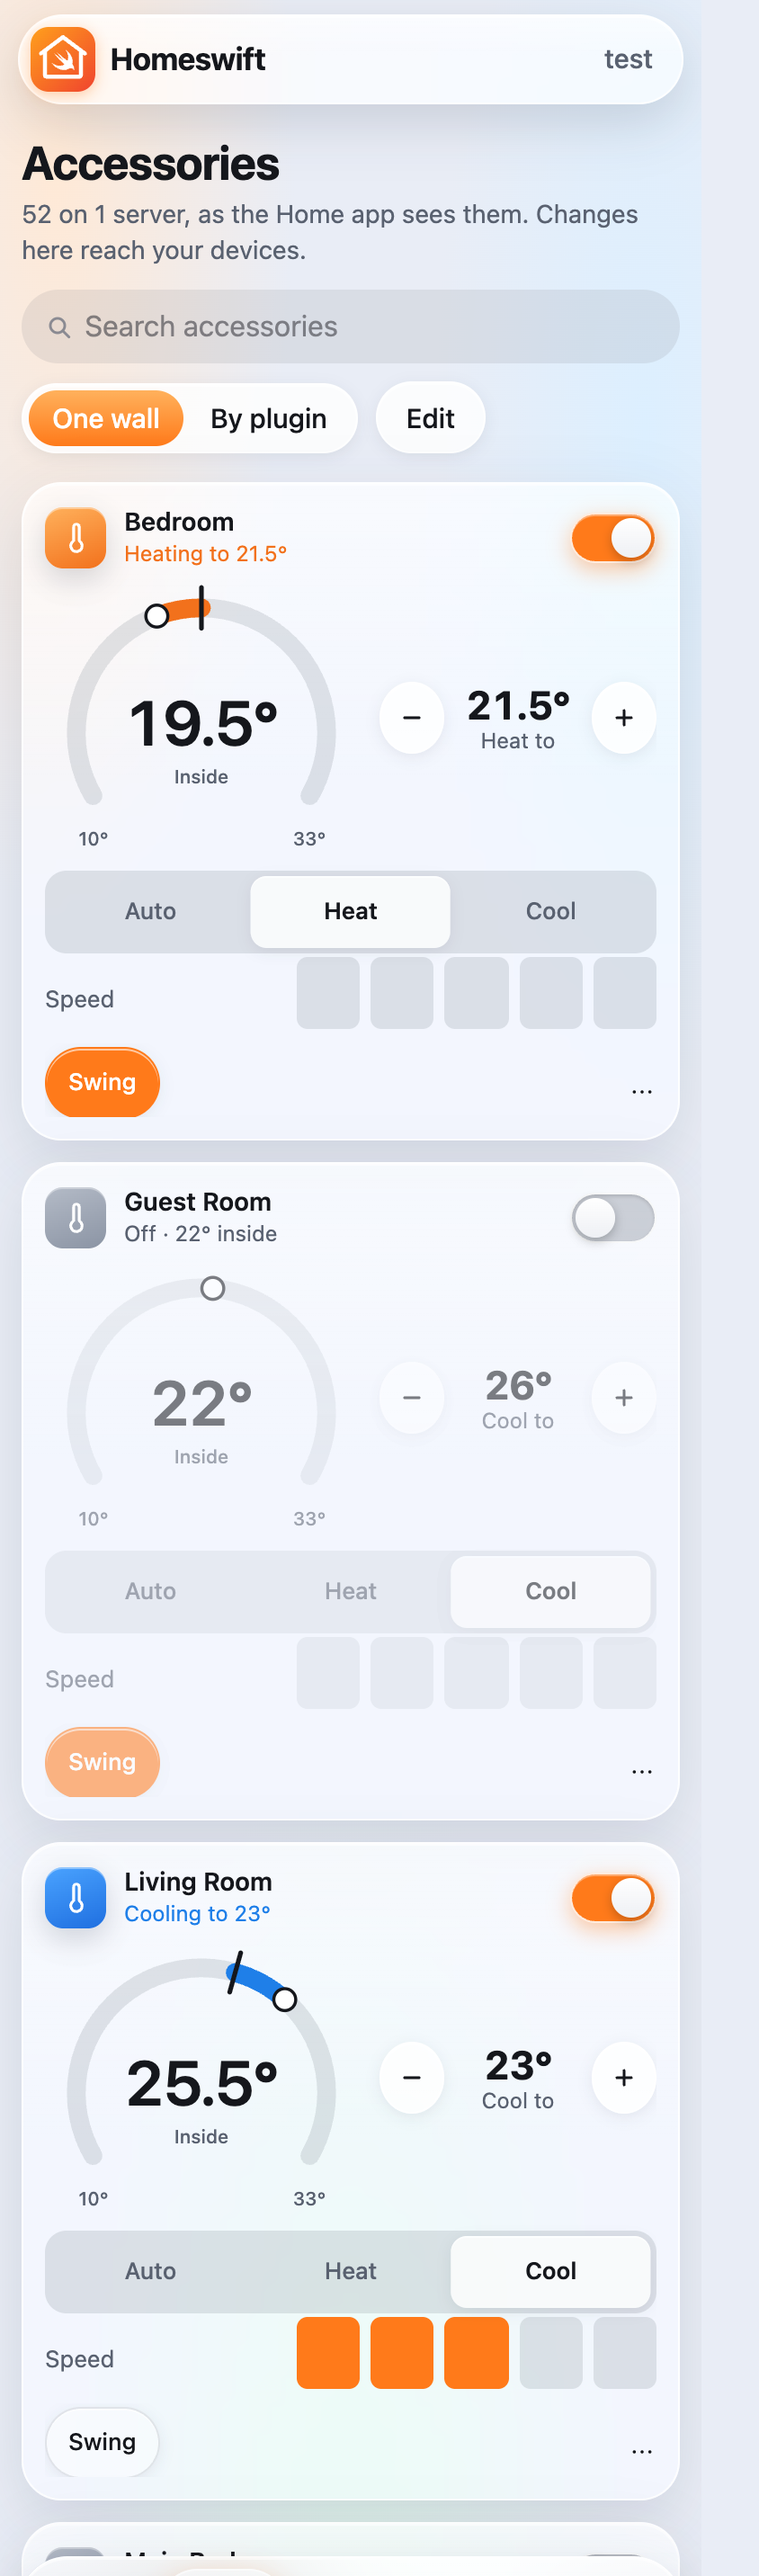
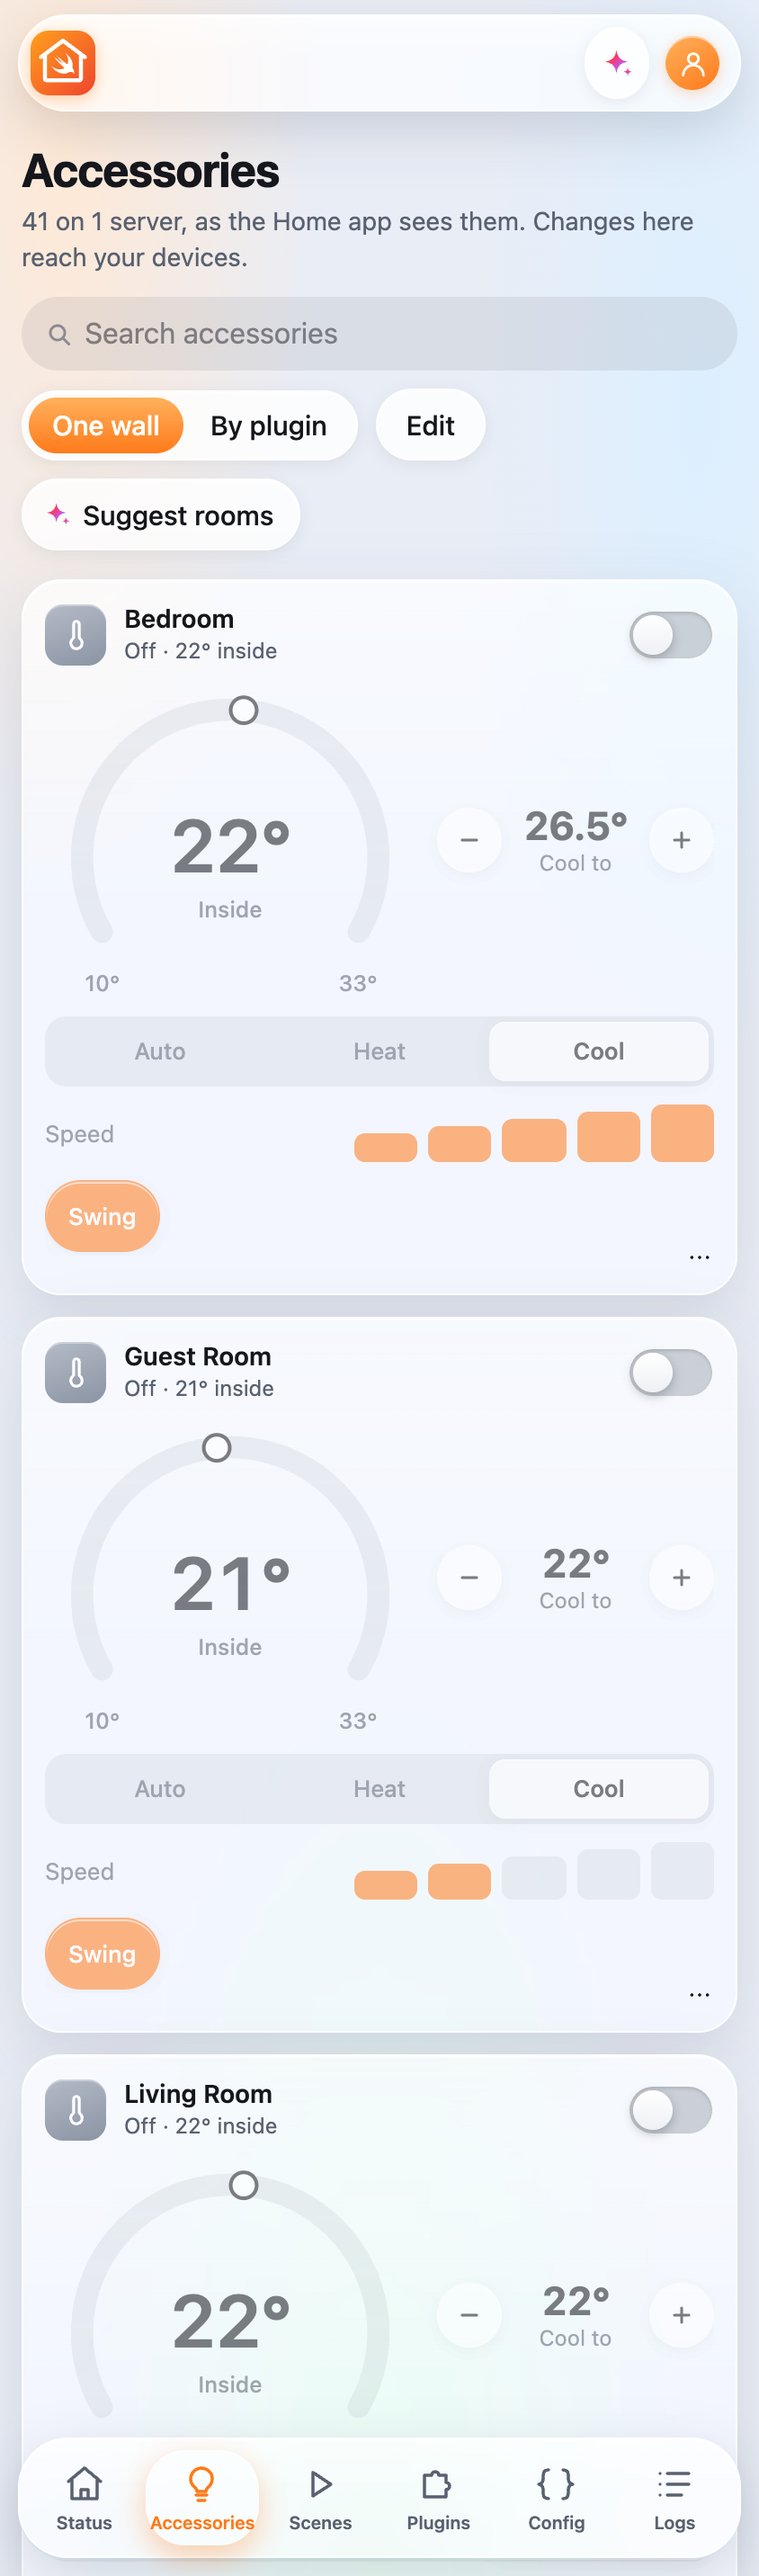
Docs: the web UI screenshots retaken with the current header and wall (Scripts/docs-screenshots.mjs); CLAUDE.md: a UI change retakes its screenshots and keeps site/ in step

diff --git a/CLAUDE.md b/CLAUDE.md
@@ -23,6 +23,7 @@ Library `Homeswift`, plugin API and runtime `HomeswiftPlugin`, the `homeswift` b
 | `Sources/HomeswiftUI` | The web UI: `UIConfiguration` (the `HomeswiftUI` block), `Auth` (users, PBKDF2, sessions, login throttle), `UIServer` (NIO HTTP, the JSON API, the event stream), `Cameras` (camera snapshots and live fMP4 streams), `AssistantChat` (the chat's conversations, kept in `ui-chats.json`), `AccessoryLayout` (the Accessories wall's order and sizes, `ui-layout.json`), `AssistantRoutes` (the pages' streamed, cancellable Assistant requests), `Preferences` (each user's appearance and Status layout), `Certificate` (HTTPS, self-signed), `Web/` (the pages, `widgets.js` the accessory widgets; `WebAssets.swift` is generated from it) |
 | `Sources/HomeswiftNetwork` | For plugins reaching devices and clouds: `NetworkInterfaces`, `HTTPClient` (NIO and NIOSSL; trusts or pins a self-signed certificate, the same on Linux; `TrustOnFirstUse`), `DigestAuthentication`, `WakeOnLAN`, `UDPSocket` and `localIPv4Networks`, `WebSocket`, `MQTTClient` (`MQTTPacket`, `MQTTTransport`; MQTT 3.1.1 and 5), `TLSOptions` (roots such as Amazon Root CA 1, client certificates, ALPN, cipher lists), `MDNSQuery` (a one-shot mDNS query whose answers carry the sender's address), `AWSSignatureV4`, `URLEncoding`, `Backoff` |
 | `Scripts/embed-assets.swift` | Embeds a plugin's `config.schema.json` or the `Web/` directory into Swift source; tests fail when the generated files are stale |
+| `Scripts/docs-screenshots.mjs` | Retakes the docs' web UI screenshots from a throwaway bridge with headless Chrome (docs/widgets.md, "Screenshots") |
 | `Scripts/new-plugin.swift` | Creates `Plugins/<Name>/` (a skeleton on a fake API that builds and passes its tests; `--service` picks the HAP services and characteristics from `Definitions.swift`, `--list` shows them), its targets in `Package.swift` and its registration in `Plugins.swift` |
 | `CONTRIBUTING.md`, `.github/` | How to propose a plugin and what it needs (the checklist), the plugin proposal issue form, the pull request template, `CODEOWNERS` |
 | `THIRD-PARTY-NOTICES.md` | The copyright and permission notices of the projects code was ported from, and which paths come from each; a new port adds its own. `Scripts/collect-licenses.sh` puts it, `LICENSES/` and the compiled-in packages' licence files in the container image and the Synology package |
@@ -105,6 +106,11 @@ node Scripts/generate-definitions.js <hap-nodejs> > Sources/Homeswift/Model/Defi
   and alarms are written only by `set_security_accessory`; tool text from logs or devices is wrapped in
   `<untrusted-data>`. The protocol is implemented directly (no SDK): `MCPServer.protocolVersion` is the
   version to bump. `homeswift mcp` logs to stderr because stdout carries the protocol.
+- Screenshots follow the UI: a change to how the web UI looks retakes, in the same change, the screenshots that show
+  it (`docs/images`, the README) and brings `site/` (homeswift.dev, which draws widgets in its own HTML) in step.
+  `Scripts/docs-screenshots.mjs` retakes the wall, phone and paused shots (docs/widgets.md, "Screenshots": a
+  throwaway bridge, plugins paused, light mode, 2x); names are demonstration names, never the user's real ones,
+  and the name map stays out of the repository.
 - The web UI: pages are plain HTML, CSS and JavaScript without dependencies or a build step; they are
   embedded, so edit `Web/` and rerun the embed script (the tests say when it is stale). The API is the
   `HomeswiftCatalog` surface; mutations need JSON bodies and a same-origin `Origin`. `HomeswiftUI` and

diff --git a/docs/widgets.md b/docs/widgets.md
@@ -9,7 +9,7 @@ characteristics, formats and ranges), so a plugin gets them without writing a li
 ![The Accessories page: a wall of widgets](images/widgets/wall.png)
 
 The page is `Sources/HomeswiftUI/Web/widgets.js` (the widgets) and `app.js` (the wall). The screenshots on this
-page use demonstration names.
+page use demonstration names; [Screenshots](#screenshots) says how they are taken.
 
 ## On the page
 
@@ -286,6 +286,24 @@ HomeswiftWidgets.register({
 `ctx.char(service, type)` finds a characteristic, `ctx.take` finds it and marks it shown (the rest goes under
 More in the sheet), `ctx.write(service, characteristic, value)` writes it (at once on the page, back with the
 reason when the device refuses), `ctx.watch(paint)` repaints after every change of the accessory.
+
+## Screenshots
+
+`wall.png`, `phone.png` and `paused.png` come from `Scripts/docs-screenshots.mjs`, run against a throwaway bridge with real
+accessories: a copy of a configuration directory with a new identity (no `username` or `pin` in `bridge`, another port,
+no `homeswift.json`, no `external/`), every plugin block `_paused` so nothing reaches a device or a cloud, the web UI on
+`127.0.0.1` with `auth: none`, and its `accessories/` cache, which brings the accessories back with their last values.
+Blocks whose accessories are published on their own (televisions, cameras) are left out: they would advertise new
+identities. Then:
+
+```bash
+node Scripts/docs-screenshots.mjs http://127.0.0.1:18582 ~/names.json
+```
+
+`names.json`, kept out of the repository, maps each real name to a demonstration name (`"names"`) and overrides values
+that would look broken (`"values"`, by demonstration name and characteristic type, such as a sensor that was off). The
+script renders in light mode at 2x and rewrites the page's accessory data as it loads, never the page itself. The other
+images (sizes, menus, the sheet, a slide, Adaptive Lighting, Edit) are close-ups taken by hand in the same setup.
 
 ## The HTTP API
 
